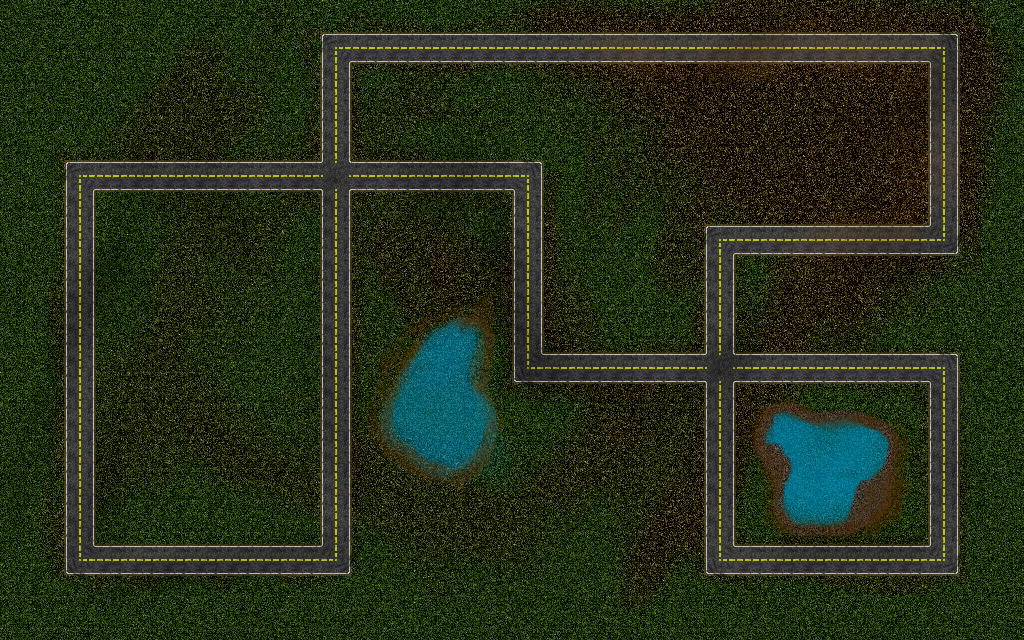
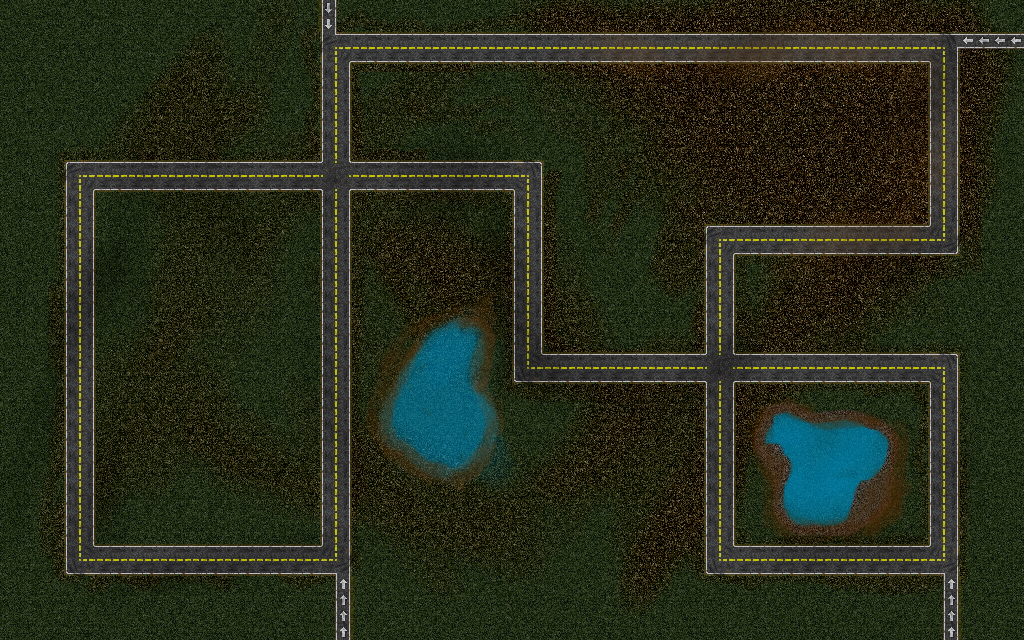
More art & added vehicle factory

diff --git a/app/scripts/output.js b/app/scripts/output.js
@@ -199,6 +199,8 @@ var GameObjectContainer = (function () {
         this.gameObjects = [];
     }
     GameObjectContainer.prototype.pushObject = function (obj) {
+        if (this.gameObjects === undefined)
+            debugger;
         this.gameObjects.push(obj);
     };
     GameObjectContainer.prototype.init = function () {
@@ -313,10 +315,10 @@ var VehicleStates;
 })(VehicleStates || (VehicleStates = {}));
 ;
 var Vehicle = (function () {
-    function Vehicle(length, width, color, heading, speed, startX, startY, mapData) {
+    function Vehicle(length, width, imgid, heading, speed, startX, startY, mapData) {
         this.length = length;
         this.width = width;
-        this.color = color;
+        this.imgid = imgid;
         this.heading = heading;
         this.speed = speed;
         this.startX = startX;
@@ -339,14 +341,15 @@ var Vehicle = (function () {
         return [];
     };
     Vehicle.prototype.loadContent = function (stage, lib) {
-        this.rect = new createjs.Shape();
-        this.rect.regX = Math.floor(this.width / 2);
-        this.rect.regY = Math.floor(this.length / 2);
-        this.rect.graphics.beginFill(this.color).drawRect(0, 0, this.width, this.length);
-        this.highlight = new createjs.Shape();
-        this.highlight.graphics.beginFill('yellow').drawRect(8, 8, 16, 16);
-        stage.addChild(this.rect);
-        stage.addChild(this.highlight);
+        this.img = new createjs.Bitmap(lib.getImage(this.imgid));
+        this.img.regX = Math.floor(this.width / 2);
+        this.img.regY = Math.floor(this.length / 2);
+        stage.addChild(this.img);
+        //this.highlight = new createjs.Shape();
+        //this.highlight.graphics
+        //    .beginFill('yellow')
+        //    .drawRect(8, 8, 16, 16);
+        //stage.addChild(this.highlight);
     };
     Vehicle.prototype.turnTowardsHeading = function (heading, desiredHeading, maxAbsTurnAngle, turnDirection) {
         var tempDesired = desiredHeading;
@@ -409,13 +412,13 @@ var Vehicle = (function () {
                 this.leftTurnInProgress = false;
                 this.allowLeftTurn = function (x, y) {
                     if (wasHeading === 270)
-                        return x < newX - 16;
+                        return x < newX - 21;
                     if (wasHeading === 90)
-                        return x > newX + 16;
+                        return x > newX + 21;
                     if (wasHeading === 180)
-                        return y > newY + 16;
+                        return y > newY + 21;
                     if (wasHeading === 0)
-                        return y < newY - 16;
+                        return y < newY - 21;
                 };
                 this.state = 2 /* TurningLeft */;
             }
@@ -455,9 +458,9 @@ var Vehicle = (function () {
                     if (headingEorW(this.heading)) {
                         var optimalY = 0;
                         if (this.heading === 90)
-                            optimalY = 24 + (newSqY * 32);
+                            optimalY = (19 + this.width) + (newSqY * 32);
                         if (this.heading === 270)
-                            optimalY = 8 + (newSqY * 32);
+                            optimalY = (13 - this.width) + (newSqY * 32); // 12 = 2, 10 = 4
                         if (newY < optimalY)
                             newY = newY + Math.min(generalVelocity, optimalY - newY);
                         if (newY > optimalY)
@@ -466,9 +469,9 @@ var Vehicle = (function () {
                     if (headingNorS(this.heading)) {
                         var optimalX;
                         if (this.heading === 0)
-                            optimalX = 24 + (newSqX * 32);
+                            optimalX = (19 + this.width) + (newSqX * 32);
                         if (this.heading === 180)
-                            optimalX = 8 + (newSqX * 32);
+                            optimalX = (13 - this.width) + (newSqX * 32);
                         if (newX < optimalX)
                             newX = newX + Math.min(generalVelocity, optimalX - newX);
                         if (newX > optimalX)
@@ -478,14 +481,14 @@ var Vehicle = (function () {
                 }
             case 3 /* TurningRight */:
                 {
-                    this.heading = this.turnTowardsHeading(this.heading, this.desiredHeading, 6 * this.speed * (event.delta / 1000), 1);
+                    this.heading = this.turnTowardsHeading(this.heading, this.desiredHeading, 8 * this.speed * (event.delta / 1000), 1);
                     break;
                 }
             case 2 /* TurningLeft */:
                 {
                     if (this.leftTurnInProgress || this.allowLeftTurn(newX, newY)) {
                         this.leftTurnInProgress = true;
-                        this.heading = this.turnTowardsHeading(this.heading, this.desiredHeading, 6 * this.speed * (event.delta / 1000), -1);
+                        this.heading = this.turnTowardsHeading(this.heading, this.desiredHeading, 8 * this.speed * (event.delta / 1000), -1);
                     }
                     break;
                 }
@@ -496,23 +499,46 @@ var Vehicle = (function () {
         this.x = newX;
         this.y = newY;
         // adjust draw position now
-        this.rect.x = Math.floor(this.x) + 120;
-        this.rect.y = Math.floor(this.y);
-        this.rect.rotation = this.heading;
+        this.img.x = Math.floor(this.x) + 120;
+        this.img.y = Math.floor(this.y);
+        this.img.rotation = (this.heading + 270) % 360;
     };
     Vehicle.prototype.unloadContent = function (stage) {
     };
     return Vehicle;
 })();
-///<reference path="../../../typings/easeljs/easeljs.d.ts" />
-///<reference path="../../../typings/preloadjs/preloadjs.d.ts" />
-///<reference path="../app.d.ts" />
 var __extends = this.__extends || function (d, b) {
     for (var p in b) if (b.hasOwnProperty(p)) d[p] = b[p];
     function __() { this.constructor = d; }
     __.prototype = b.prototype;
     d.prototype = new __();
 };
+var VehicleFactory = (function (_super) {
+    __extends(VehicleFactory, _super);
+    function VehicleFactory(mapData) {
+        _super.call(this);
+        this.mapData = mapData;
+    }
+    VehicleFactory.prototype.init = function () {
+        this.pushObject(new Vehicle(28, 12, 'sportscar', 0, 100, 10, 4, this.mapData));
+        this.pushObject(new Vehicle(28, 12, 'minivan', 180, 75, 10, 2, this.mapData));
+        this.pushObject(new Vehicle(28, 12, 'truck', 180, 50, 2, 14, this.mapData));
+        this.pushObject(new Vehicle(28, 12, 'sportscar', 180, 50, 2, 15, this.mapData));
+        this.pushObject(new Vehicle(28, 12, 'sportscar', 180, 100, 2, 10, this.mapData));
+        _super.prototype.init.call(this);
+    };
+    VehicleFactory.prototype.preload = function () {
+        var paths = _super.prototype.preload.call(this);
+        paths.push({ id: 'minivan', src: 'minivan.png' }); // 24 x 10
+        paths.push({ id: 'sportscar', src: 'sportscar.png' }); // 21 x 12
+        paths.push({ id: 'truck', src: 'truck.png' }); // 28 x 12
+        return paths;
+    };
+    return VehicleFactory;
+})(GameObjectContainer);
+///<reference path="../../../typings/easeljs/easeljs.d.ts" />
+///<reference path="../../../typings/preloadjs/preloadjs.d.ts" />
+///<reference path="../app.d.ts" />
 var World = (function (_super) {
     __extends(World, _super);
     function World(stage) {
@@ -538,14 +564,16 @@ var World = (function (_super) {
         createjs.Ticker.setFPS(60);
         this.map = new BgMap(false);
         this.scoreboard = new ScoreBoard();
+        this.factory = new VehicleFactory(this.map);
         this.grid = new GridOverlay('#999', 32, 1024, 640, 120, 0);
         this.pushObject(this.map);
-        this.pushObject(new Vehicle(28, 12, 'blue', 0, 30, 10, 4, this.map));
-        this.pushObject(new Vehicle(28, 12, 'red', 180, 30, 10, 2, this.map));
+        this.pushObject(this.factory);
+        //this.pushObject(new Vehicle(28, 12, 'blue', 0, 100, 10, 4, this.map))
+        //this.pushObject(new Vehicle(28, 12, 'red', 180, 100, 10, 2, this.map))
         //this.pushObject(new Vehicle(28, 12, 'purple', 180, 4, 2, 5, this.map))
         //this.pushObject(new Vehicle(28, 12, 'yellow', 270, 4, 29, 1, this.map))
         this.pushObject(this.scoreboard);
-        this.pushObject(this.grid);
+        //this.pushObject(this.grid);
         _super.prototype.init.call(this);
         console.log('world:init exit');
     };

diff --git a/app/scripts/ts/Vehicle.ts b/app/scripts/ts/Vehicle.ts
@@ -9,7 +9,7 @@ class Vehicle implements IGameObject {
     x:number;
     y:number;
     highlight:createjs.Shape;
-    rect:createjs.Shape;
+    img:createjs.Bitmap;
     state:VehicleStates;
     desiredHeading:number;
     speedcap:number;
@@ -19,7 +19,7 @@ class Vehicle implements IGameObject {
 
     constructor(public length:number,
                 public width:number,
-                public color:string,
+                public imgid:string,
                 public heading:number,
                 public speed:number,
                 public startX:number,
@@ -45,20 +45,16 @@ class Vehicle implements IGameObject {
     }
 
     loadContent(stage:createjs.Stage, lib:AssetLibrary):void {
-        this.rect = new createjs.Shape();
-        this.rect.regX = Math.floor(this.width / 2);
-        this.rect.regY = Math.floor(this.length / 2);
-        this.rect.graphics
-            .beginFill(this.color)
-            .drawRect(0, 0, this.width, this.length);
+        this.img = new createjs.Bitmap(lib.getImage(this.imgid));
+        this.img.regX = Math.floor(this.width / 2);
+        this.img.regY = Math.floor(this.length / 2);
+        stage.addChild(this.img);
 
-        this.highlight = new createjs.Shape();
-        this.highlight.graphics
-            .beginFill('yellow')
-            .drawRect(8, 8, 16, 16);
-
-        stage.addChild(this.rect);
-        stage.addChild(this.highlight);
+        //this.highlight = new createjs.Shape();
+        //this.highlight.graphics
+        //    .beginFill('yellow')
+        //    .drawRect(8, 8, 16, 16);
+        //stage.addChild(this.highlight);
     }
 
     turnTowardsHeading(heading:number, desiredHeading:number, maxAbsTurnAngle:number, turnDirection:number):number {
@@ -124,10 +120,10 @@ class Vehicle implements IGameObject {
                 //console.log('turning left');
                 this.leftTurnInProgress = false;
                 this.allowLeftTurn = (x, y) => {
-                    if(wasHeading === 270) return x < newX - 16;
-                    if(wasHeading === 90) return x > newX + 16;
-                    if(wasHeading === 180) return y > newY + 16;
-                    if(wasHeading === 0) return y < newY - 16;
+                    if(wasHeading === 270) return x < newX - 21;
+                    if(wasHeading === 90) return x > newX + 21;
+                    if(wasHeading === 180) return y > newY + 21;
+                    if(wasHeading === 0) return y < newY - 21;
                 }
 
                 this.state = VehicleStates.TurningLeft;
@@ -170,30 +166,30 @@ class Vehicle implements IGameObject {
                 // if not in my lane, move towards the optimal position for my heading
                 if(headingEorW(this.heading)) {
                     var optimalY = 0;
-                    if(this.heading === 90) optimalY = 24 + (newSqY * 32);
-                    if(this.heading === 270) optimalY = 8 + (newSqY * 32);
+                    if(this.heading === 90) optimalY = (19 + this.width) + (newSqY * 32);
+                    if(this.heading === 270) optimalY = (13 - this.width) + (newSqY * 32); // 12 = 2, 10 = 4
                     if(newY < optimalY) newY = newY + Math.min(generalVelocity, optimalY - newY);
                     if(newY > optimalY) newY = newY - Math.min(generalVelocity, newY - optimalY);
                 }
 
                 if(headingNorS(this.heading)) {
                     var optimalX;
-                    if(this.heading === 0) optimalX = 24 + (newSqX * 32);
-                    if(this.heading === 180) optimalX = 8 + (newSqX * 32);
+                    if(this.heading === 0) optimalX = (19 + this.width) + (newSqX * 32);
+                    if(this.heading === 180) optimalX = (13 - this.width) + (newSqX * 32);
                     if(newX < optimalX) newX = newX + Math.min(generalVelocity, optimalX - newX);
                     if(newX > optimalX) newX = newX - Math.min(generalVelocity, newX - optimalX);
                 }
                 break;
             }
             case VehicleStates.TurningRight: {
-                this.heading = this.turnTowardsHeading(this.heading, this.desiredHeading, 6 * this.speed * (event.delta / 1000), 1);
+                this.heading = this.turnTowardsHeading(this.heading, this.desiredHeading, 8 * this.speed * (event.delta / 1000), 1);
                 break;
             }
             case VehicleStates.TurningLeft: {
                 if(this.leftTurnInProgress || this.allowLeftTurn(newX, newY))
                 {
                     this.leftTurnInProgress = true;
-                    this.heading = this.turnTowardsHeading(this.heading, this.desiredHeading, 6 * this.speed * (event.delta / 1000), -1);
+                    this.heading = this.turnTowardsHeading(this.heading, this.desiredHeading, 8 * this.speed * (event.delta / 1000), -1);
                 }
                 break;
             }
@@ -207,9 +203,9 @@ class Vehicle implements IGameObject {
         this.y = newY;
 
         // adjust draw position now
-        this.rect.x = Math.floor(this.x) + 120;
-        this.rect.y = Math.floor(this.y);
-        this.rect.rotation = this.heading;
+        this.img.x = Math.floor(this.x) + 120;
+        this.img.y = Math.floor(this.y);
+        this.img.rotation = (this.heading + 270) % 360;
     }
 
     unloadContent(stage:createjs.Stage):void {

diff --git a/app/scripts/output.d.ts b/app/scripts/output.d.ts
@@ -83,7 +83,7 @@ declare enum VehicleStates {
 declare class Vehicle implements IGameObject {
     length: number;
     width: number;
-    color: string;
+    imgid: string;
     heading: number;
     speed: number;
     startX: number;
@@ -92,13 +92,13 @@ declare class Vehicle implements IGameObject {
     x: number;
     y: number;
     highlight: createjs.Shape;
-    rect: createjs.Shape;
+    img: createjs.Bitmap;
     state: VehicleStates;
     desiredHeading: number;
     speedcap: number;
     allowLeftTurn: (x: number, y: number) => boolean;
     leftTurnInProgress: boolean;
-    constructor(length: number, width: number, color: string, heading: number, speed: number, startX: number, startY: number, mapData: BgMap);
+    constructor(length: number, width: number, imgid: string, heading: number, speed: number, startX: number, startY: number, mapData: BgMap);
     init(): void;
     preload(): IAssetPath[];
     loadContent(stage: createjs.Stage, lib: AssetLibrary): void;
@@ -107,12 +107,19 @@ declare class Vehicle implements IGameObject {
     update(event: createjs.TickerEvent): void;
     unloadContent(stage: createjs.Stage): void;
 }
+declare class VehicleFactory extends GameObjectContainer {
+    mapData: BgMap;
+    constructor(mapData: BgMap);
+    init(): void;
+    preload(): IAssetPath[];
+}
 declare class World extends GameObjectContainer {
     stage: createjs.Stage;
     level: number;
     scoreboard: ScoreBoard;
     map: BgMap;
     grid: GridOverlay;
+    factory: VehicleFactory;
     bgimg: createjs.Bitmap;
     lib: AssetLibrary;
     constructor(stage: createjs.Stage);

diff --git a/app/scripts/ts/World.ts b/app/scripts/ts/World.ts
@@ -7,6 +7,7 @@ class World extends GameObjectContainer {
     scoreboard:ScoreBoard;
     map:BgMap;
     grid:GridOverlay;
+    factory:VehicleFactory;
     bgimg:createjs.Bitmap;
 
     lib:AssetLibrary = new AssetLibrary('images/');
@@ -34,16 +35,18 @@ class World extends GameObjectContainer {
 
         this.map = new BgMap(false);
         this.scoreboard = new ScoreBoard();
+        this.factory = new VehicleFactory(this.map);
         this.grid = new GridOverlay('#999', 32, 1024, 640, 120, 0);
 
         this.pushObject(this.map);
-        this.pushObject(new Vehicle(28, 12, 'blue', 0, 30, 10, 4, this.map))
-        this.pushObject(new Vehicle(28, 12, 'red', 180, 30, 10, 2, this.map))
+        this.pushObject(this.factory);
+        //this.pushObject(new Vehicle(28, 12, 'blue', 0, 100, 10, 4, this.map))
+        //this.pushObject(new Vehicle(28, 12, 'red', 180, 100, 10, 2, this.map))
         //this.pushObject(new Vehicle(28, 12, 'purple', 180, 4, 2, 5, this.map))
         //this.pushObject(new Vehicle(28, 12, 'yellow', 270, 4, 29, 1, this.map))
 
         this.pushObject(this.scoreboard);
-        this.pushObject(this.grid);
+        //this.pushObject(this.grid);
 
         super.init();
         console.log('world:init exit');

diff --git a/app/scripts/ts/VehicleFactory.ts b/app/scripts/ts/VehicleFactory.ts
@@ -1,0 +1,24 @@
+class VehicleFactory extends GameObjectContainer {
+    constructor(public mapData:BgMap) {
+        super();
+    }
+
+    init() {
+        this.pushObject(new Vehicle(28, 12, 'sportscar', 0, 100, 10, 4, this.mapData))
+        this.pushObject(new Vehicle(28, 12, 'minivan', 180, 75, 10, 2, this.mapData))
+        this.pushObject(new Vehicle(28, 12, 'truck', 180, 50, 2, 14, this.mapData))
+        this.pushObject(new Vehicle(28, 12, 'sportscar', 180, 50, 2, 15, this.mapData))
+        this.pushObject(new Vehicle(28, 12, 'sportscar', 180, 100, 2, 10, this.mapData))
+
+        super.init();
+    }
+
+    preload():IAssetPath[] {
+        var paths = super.preload();
+        paths.push({id: 'minivan', src: 'minivan.png'}); // 24 x 10
+        paths.push({id: 'sportscar', src: 'sportscar.png'}); // 21 x 12
+        paths.push({id: 'truck', src: 'truck.png'}); // 28 x 12
+        return paths;
+    }
+}
+

diff --git a/app/scripts/ts/GameObjectContainer.ts b/app/scripts/ts/GameObjectContainer.ts
@@ -4,6 +4,7 @@ class GameObjectContainer implements IGameObject {
 gameObjects:IGameObject[] = [];
 
     pushObject(obj:IGameObject):void {
+        if(this.gameObjects === undefined) debugger;
         this.gameObjects.push(obj);
     }
 
